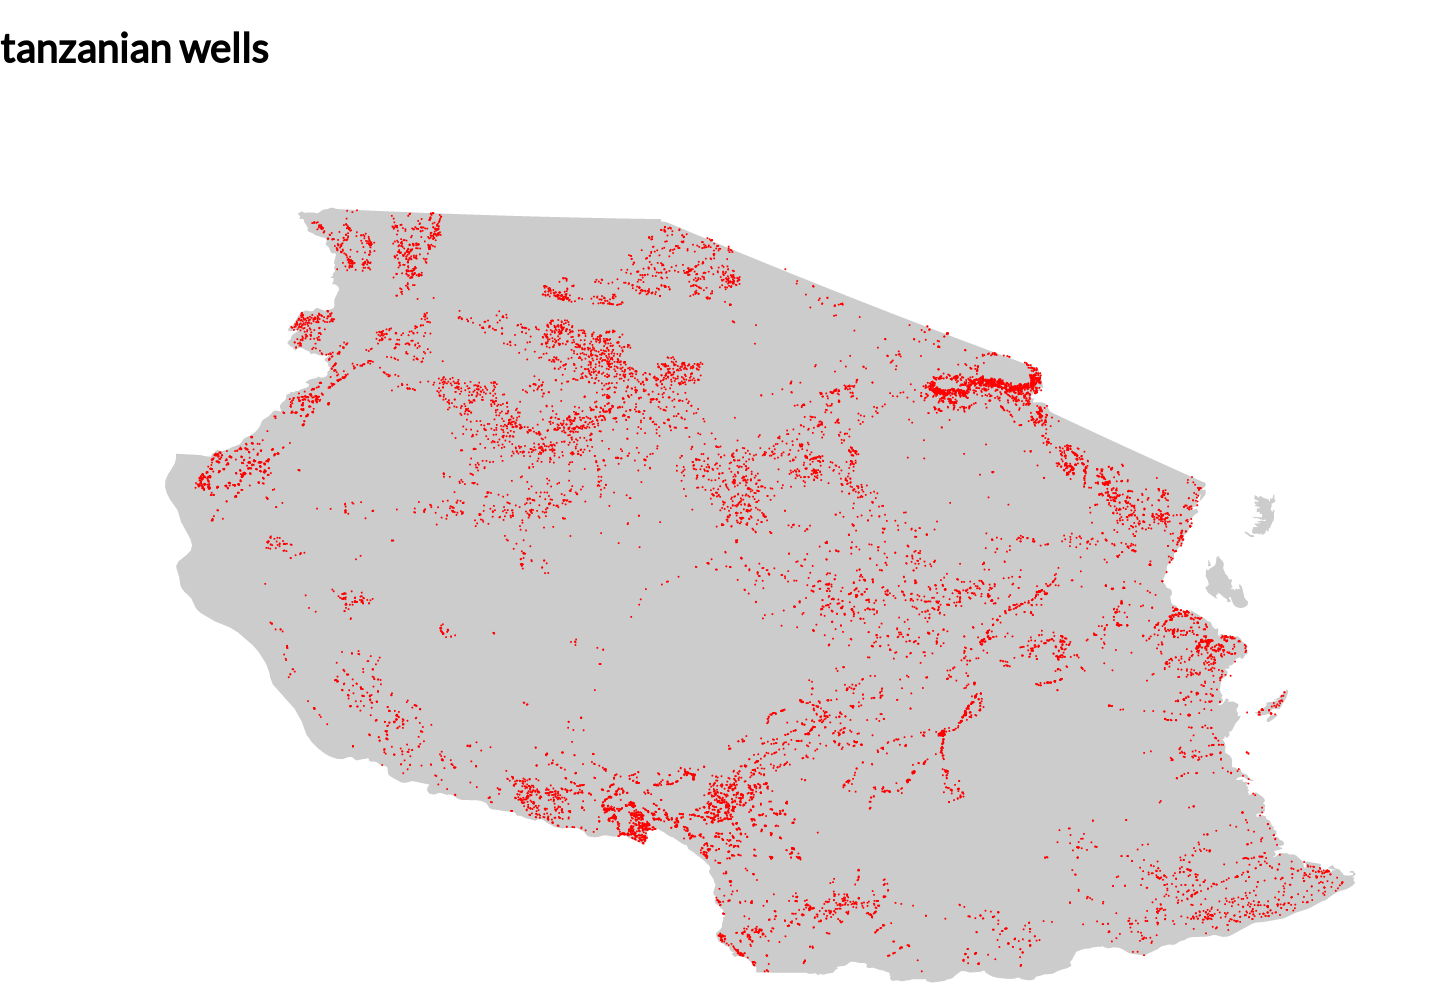
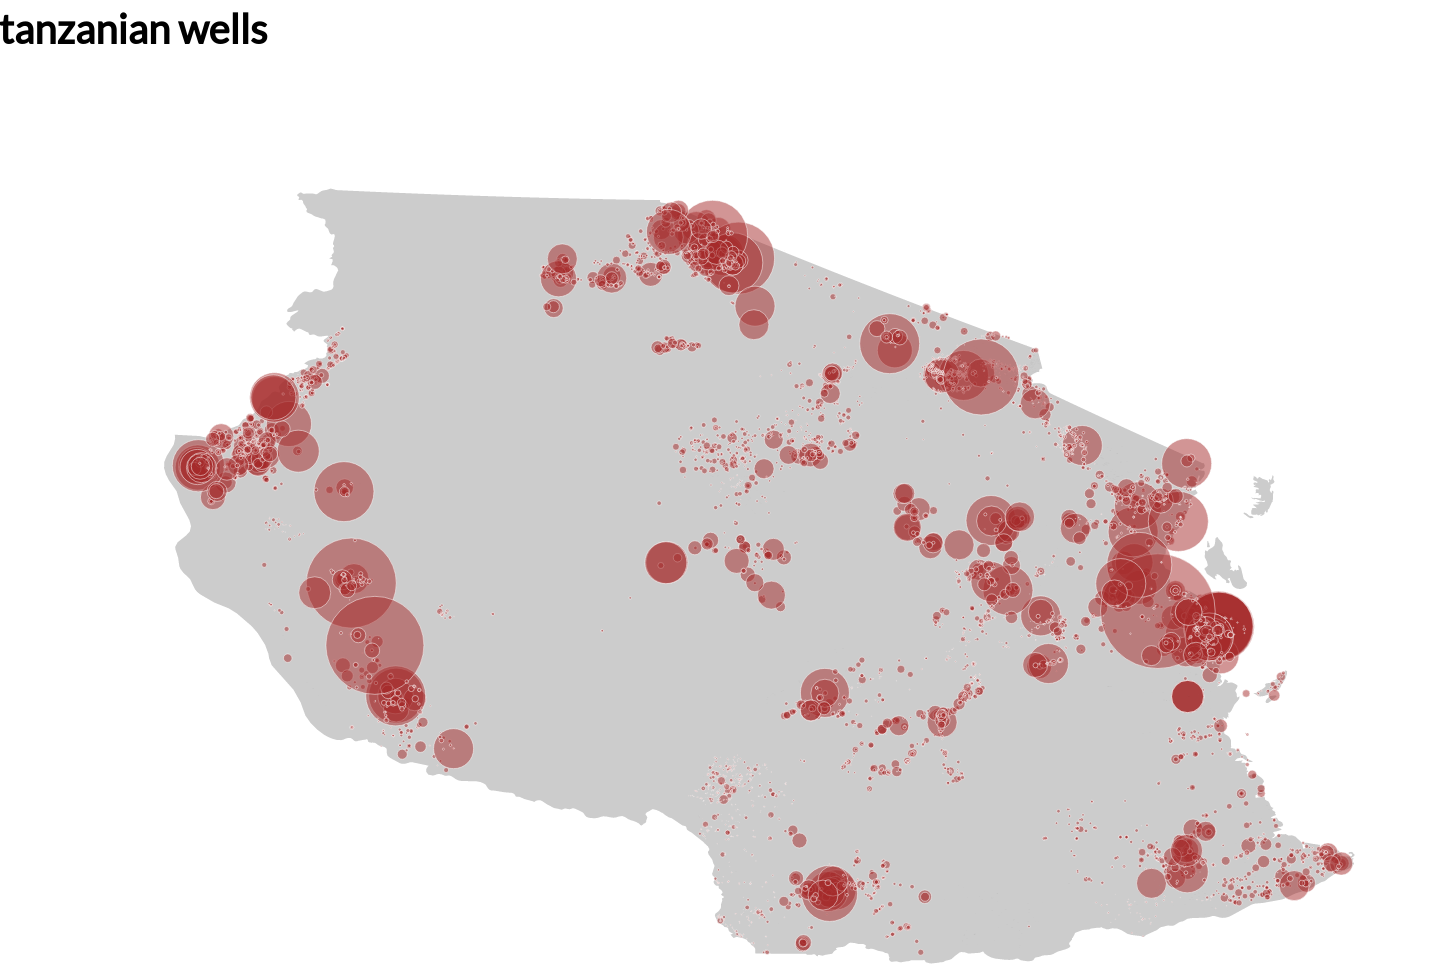
vary radius

diff --git a/js/script.js b/js/script.js
@@ -23,7 +23,6 @@ var projection = d3.geo.albers()
 var geoPath = d3.geo.path()
     .projection( projection );
 
-
 var wells = svg.append( "g" );
 
 function main(){
@@ -39,9 +38,10 @@ function main(){
   		.data(data)
   		.enter()
   		.append("circle")
-		  .attr("cx", function (d) { console.log(d.longitude); return projection([d.longitude,d.latitude])[0];})
-	  	.attr("cy", function (d) { console.log(d.latitude);  return projection([d.longitude,d.latitude])[1];})
-  		.attr("class", "bubble")  
+		  .attr("cx", function (d) { return projection([d.longitude,d.latitude])[0];})
+	  	.attr("cy", function (d) { return projection([d.longitude,d.latitude])[1];})
+  		.attr("class", "wells")  
+  		.attr("r", function(d){ return d.population/200;})  
   		.append("title")
       .text(function(d) {
         return d.id

diff --git a/css/style.css b/css/style.css
@@ -4,28 +4,9 @@ body {
     margin: 0px;
 }
 
-.wells{
-    r: 1px;    
-    fill: red;
-}
-
-.functional{
-    fill: cyan;
-}
-
-.nonfunctional{
-    fill: red;
-}
-
-.needsrepair{
-    fill: yellow;
-    
-}
 
 
-.land {
-  fill: #ddd;
-}
+
 
 .border {
   fill: none;
@@ -34,8 +15,8 @@ body {
   stroke-linecap: round;
 }
 
-.bubble {
-  r: 3px;
+.wells {
+  /*r: 3px;*/
   fill: brown;
   fill-opacity: .5;
   stroke: #fff;
